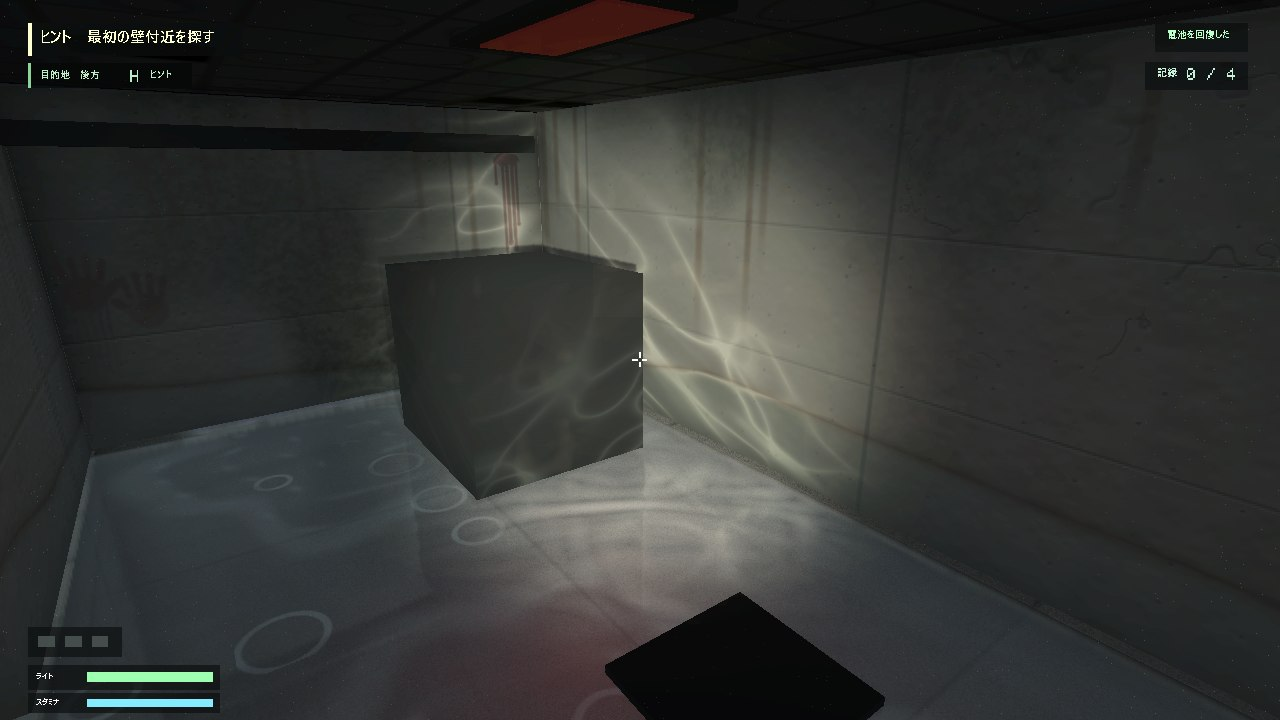
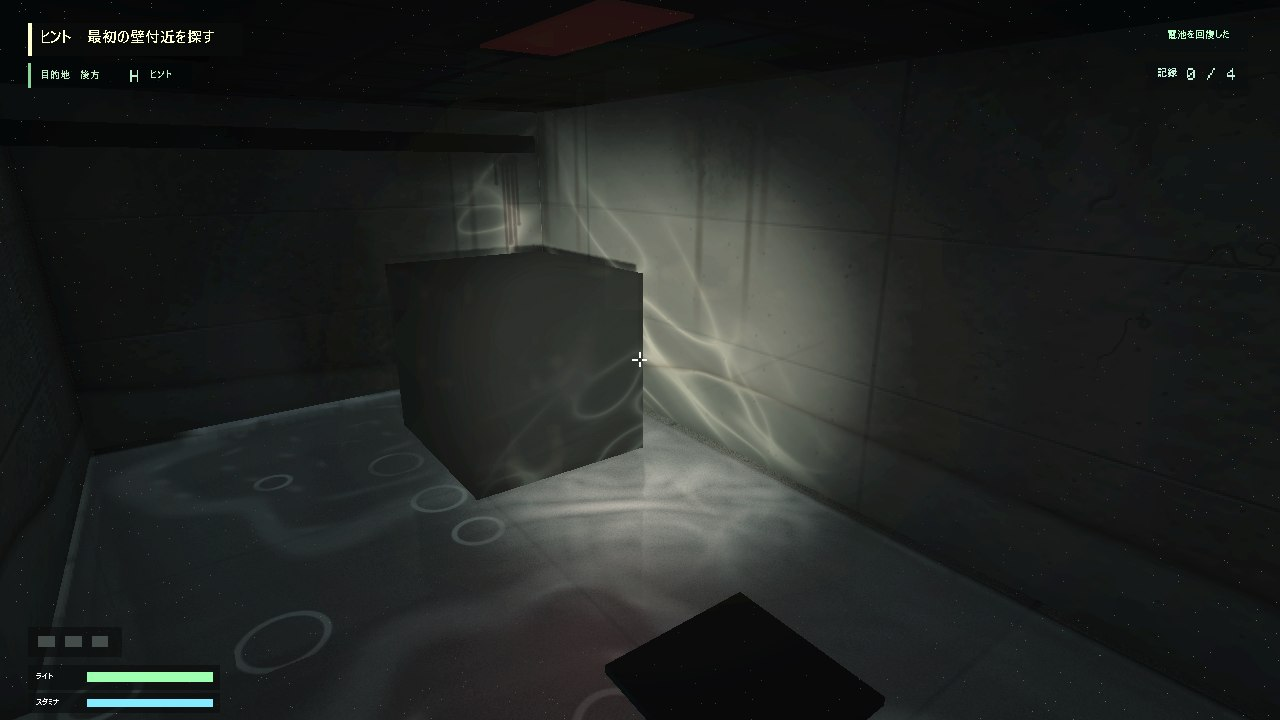
グラフィックをホラー寄りに調整（共通の色調で暗部を沈めて彩度を落とし、霧を闇の色に、環境光と照明を弱め、懐中電灯の光を狭め、周辺減光と暗部の粒を強化）。READMEの画像を更新

diff --git a/Job_application_work_horror/Player.cpp b/Job_application_work_horror/Player.cpp
@@ -348,11 +348,11 @@ void Player::Update()
         flashlightDirection.y,
         flashlightDirection.z,
         0.0f);
-    // スポットライトの形：13度の内側は全部の明るさ、29度の外側で消え、その間は1.55乗でなめらかに暗くしている
+    // スポットライトの形：11度の内側は全部の明るさ、26度の外側で消え、その間は1.8乗で暗くしている（照らした輪の外がすぐ闇になる）
     light.SpotParams = Vector4(
-        cosf(DirectX::XMConvertToRadians(13.0f)),
-        cosf(DirectX::XMConvertToRadians(29.0f)),
-        1.55f,
+        cosf(DirectX::XMConvertToRadians(11.0f)),
+        cosf(DirectX::XMConvertToRadians(26.0f)),
+        1.8f,
         batteryWeakness
     );
 
@@ -364,23 +364,24 @@ void Player::Update()
             m_LightDiffuseG * (1.0f - batteryStress * 0.06f - batteryWeakness * 0.10f),
             m_LightDiffuseB * (1.0f - batteryStress * 0.18f - batteryWeakness * 0.32f),
             1.0f);
-        light.Ambient = Color(0.255f, 0.252f, 0.246f, 1.0f);
+        // 懐中電灯を点けている間は、光の外を暗く沈め、照らした所だけが見えるようにしている
+        light.Ambient = Color(0.150f, 0.152f, 0.150f, 1.0f);
     }
     else
     {
         light.Diffuse = Color(0.0f, 0.0f, 0.0f, 1.0f);
         light.Ambient = Color(
-            0.245f, // 懐中電灯を消しても、壁と進む方向を見分けられる最低限の明るさ
-            0.248f,
-            0.252f,
+            0.190f, // 懐中電灯を消しても、壁と進む方向をかろうじて見分けられる最低限の明るさ
+            0.194f,
+            0.198f,
             1.0f
         );
     }
 
-    // 電力が戻ったら、環境光を少し明るくしている
+    // 電力が戻ったら、環境光を少し明るくしている（それでも照明の間には暗がりが残る程度にしている）
     if (Core::Game::GetInstance()->IsPowerRestored())
     {
-        light.Ambient = Color(0.285f, 0.292f, 0.304f, 1.0f);
+        light.Ambient = Color(0.200f, 0.205f, 0.212f, 1.0f);
     }
 
     Renderer::SetLight(light);

diff --git a/Job_application_work_horror/CeilingLight.cpp b/Job_application_work_horror/CeilingLight.cpp
@@ -433,14 +433,15 @@ void CeilingLight::CollectPointLights(std::vector<ENVIRONMENT_POINT_LIGHT>& ligh
     // 発光パネルより少し下へ光源を置き、天井に埋もれず室内を照らすようにしている。
     pointLight.PositionRange = Vector4(
         m_Position.x, m_Position.y - 3.0f, m_Position.z,
-        powerRestored ? 165.0f : 115.0f);
+        powerRestored ? 140.0f : 115.0f);
 
     // 進行先の器具も、周囲と同じ非常灯・蛍光灯の色で照らす。
+    // 電力が戻っても、古い蛍光灯のように少し緑がかった弱い光にし、照明と照明の間に暗がりが残るようにしている。
     if (powerRestored)
     {
         pointLight.ColorIntensity = IsFaulted()
-            ? Vector4(0.70f, 0.78f, 0.56f, brightness * 1.08f)
-            : Vector4(0.84f, 0.91f, 1.0f, brightness * 1.32f);
+            ? Vector4(0.70f, 0.78f, 0.56f, brightness * 0.80f)
+            : Vector4(0.88f, 0.94f, 0.84f, brightness * 0.95f);
     }
     else
     {

diff --git a/Job_application_work_horror/Stage2Scene.cpp b/Job_application_work_horror/Stage2Scene.cpp
@@ -90,7 +90,7 @@ void Stage2Scene::Init()
     // 2面は電力が戻った状態から始め、画面効果を2面の雰囲気（少し暗く、光の筋あり）にしている
     game->SetPowerRestored(true);
     game->GetPostProcess()->SetCorridorTension(0.38f);
-    game->GetPostProcess()->SetExposure(1.02f);
+    game->GetPostProcess()->SetExposure(0.95f);
     game->GetPostProcess()->SetAtmosphere(0.20f, 0.62f);
     game->GetPostProcess()->SetLensDistortionStrength(0.20f);
     game->GetPostProcess()->SetFilmGradeStrength(0.58f);
@@ -444,8 +444,8 @@ void Stage2Scene::Update()
             if (marker != nullptr)
             {
                 marker->SetAppearance(
-                    Color(0.08f, 0.18f, 0.10f, 1.0f),
-                    Color(0.16f, 0.52f, 0.22f, 1.0f),
+                    Color(0.06f, 0.14f, 0.08f, 1.0f),
+                    Color(0.08f, 0.30f, 0.12f, 1.0f),
                     44.0f);
             }
             game->GetPostProcess()->TriggerBloomPulse(0.38f, 0.18f);

diff --git a/Job_application_work_horror/Stage2Layout.cpp b/Job_application_work_horror/Stage2Layout.cpp
@@ -204,7 +204,7 @@ namespace Stage2Layout
             Color(0.025f, 0.11f, 0.09f, 1.0f), false);
         evidenceMarker1->SetAppearance(
             Color(0.025f, 0.11f, 0.09f, 1.0f),
-            Color(0.02f, 0.24f, 0.16f, 1.0f), 36.0f);
+            Color(0.012f, 0.13f, 0.09f, 1.0f), 36.0f);
         evidenceMarker1->SetCastsShadow(false);
         Wall* evidenceMarker2 = createWall(
             "Stage2EvidenceMarker2", Vector3(-39.4f, -65.0f, 108.0f),
@@ -212,7 +212,7 @@ namespace Stage2Layout
             Color(0.025f, 0.11f, 0.09f, 1.0f), false);
         evidenceMarker2->SetAppearance(
             Color(0.025f, 0.11f, 0.09f, 1.0f),
-            Color(0.02f, 0.24f, 0.16f, 1.0f), 36.0f);
+            Color(0.012f, 0.13f, 0.09f, 1.0f), 36.0f);
         evidenceMarker2->SetCastsShadow(false);
 
         // 信号盤の上の、色付きで光る目印（信号の面として、シェーダーで模様を描いている）

diff --git a/README.md b/README.md
@@ -117,6 +117,7 @@ Debug構成では `F1` でImGuiデバッグ画面を表示できます。
 ## 技術的な見どころ
 
 - HLSLによる懐中電灯、濡れ床、ブルーム、ビネット、フィルムグレインなどの画面表現
+- ホラー向けの色調（`shader/horrorGrade.hlsli`。壁・床・壁の文字で共通）。暗い所ほど色を抜き（彩度55%）、とても暗い所をさらに沈めて、光の届かない所を灰色ではなく闇にしている。影は病的な緑がかった暗い青、明るい所は黄ばんだ古い蛍光灯の色に寄せ、遠くの霧も灰色のもやではなく闇に溶ける色にしている。環境光を下げ、懐中電灯の光の輪を狭め（11〜26度）、電力が戻った後の天井照明も弱い緑がかった光にして、照らした所とその間の闇の差をはっきりさせている。画面の端の周辺減光を強め、暗い所ほどフィルムの粒が目立つようにしている
 - Compute Shaderによるタイルベースライティング（画面を16x16のタイルに分け、タイルごとに影響する点光源だけを計算。光源数の上限を8個から256個へ拡張。深度プリパスの深度からタイルの一番奥の深度を求め、壁の向こうの光源も外す）
 - 深度プリパス（Zプリパス）。不透明な壁・床・扉の深度だけを本描画と同じ頂点シェーダーで先に描き、隠れた画素の重いピクセルシェーダーを省く。本描画のGPU時間が2.3〜4.8msから1.3〜1.5msに減った（RTX 3050 Laptop、1920x1080。導入前後の画面を画素単位で比べて見た目が変わらないことを確認）
 - Compute Shaderによる自動露出。画面の明るさの対数平均（中央を重く）を1グループ256スレッドで求め、暗い所へはゆっくり・明るい所へは素早く目が慣れる。結果はGPUのバッファに置いたまま露出のシェーダーが読み、CPUへ読み戻さない
@@ -149,6 +150,10 @@ Debug構成では `F1` でImGuiデバッグ画面を表示できます。
 
 ## 試したことと直したこと（経緯）
 
+- **グラフィックがホラーらしくない、という意見をもらった**：画面全体が明るく、色も多く、清潔なオフィスのように見えていた。
+  原因は、環境光（懐中電灯の光の外の明るさ）が高く、遠くの霧が明るい灰色で、色調の補正も控えめだったこと。
+  色調を共通の処理（`horrorGrade.hlsli`）にまとめ、彩度を落として暗い所を沈め、霧を闇の色に、環境光と照明を弱め、懐中電灯の光の輪を狭めた。
+  照らした所に何があるかは読めるよう、明るい所の色は少し残し、進む方向の照明のちかちかや信号盤の光る色は残している。
 - **水たまりが、PCによって消えていた**：水たまりを置く場所を、シェーダーの中で `sin` を使った乱数で決めていた。`sin` の精度はGPUの種類で違うため、別のPCでは同じ式でも違う値になり、水たまりが消えた。
   置く場所をCPUで計算した表（16x16マス）にして定数バッファ（b13）で渡すようにし、どのGPUでも同じ場所に出るようにした。
 - **水たまりの波紋**：最初は、足音のたびに加算合成の輪の板を広げているだけだった。講評で「波紋のシミュレーション」「波打った反射を壁に映す」と言われ、Compute Shaderの2次元の波動方程式に置き換えた。

diff --git a/docs/AI_USAGE.md b/docs/AI_USAGE.md
@@ -73,6 +73,7 @@
 | 肖像画の異変の目を、絵の前に浮かぶ赤い箱から、シェーダーで描いた目に替えた（見つめると開きかけ、異変で見開いて赤い瞳が見ている人を目で追う）。デバッグ画面と自動撮影に肖像画の異変を出す操作と場面を追加 | `shader/portraitPainting.hlsli`, `shader/litTexturePS.hlsl`, `Wall.*`, `Stage2Layout.*`, `Stage2Scene*.cpp`, `Stage2Scene.h`, `Scene.h`, `DebugUI.cpp`, `CaptureMode.cpp`, `README.md` | 絵の目の設計・実装・撮影での確認 | 方針の選択（肖像画の目を絵の中で開かせる） |
 | 時計の文字盤をシェーダーで描いた（ローマ数字・目盛り・針・ガラスのひび。箱の針を削除）、ロッカーで息を止める操作（影がロッカーの前まで探しに来る。息のゲージと聞かれる猶予）、懐中電灯の光の輪・くもりと電池の弱り（60%以下で暗く黄色く短く）、鏡に映る自分を円柱と楕円体の体にして歩くと手足を振るようにした、1面の西棟の水から後をついて来る誰かの足跡。自動撮影に電池が弱った場面を追加 | `shader/clockFace.hlsli`, `shader/clockPS.hlsl`, `shader/litTexturePS.hlsl`, `shader/flashlightLighting.hlsli`, `Wall.*`, `BreathHold.h`, `MirrorSelf.*`, `Player.cpp`, `Hud.h`, `HudScreens.cpp`, `Stage1Layout.*`, `StageScene.*`, `StageSceneEvents.cpp`, `Stage2Layout.*`, `Stage2Scene*.cpp`, `Stage2Scene.h`, `CaptureMode.cpp`, `README.md` | 設計・実装・撮影での確認 | 方針の選択（候補1〜5を続けて作る） |
 | 偽の扉の板をシェーダーで描いた木の扉にした（羽目板・木目・剥げた塗装・部屋番号の札・鍵穴）、天井の雨漏り（落ち続ける水滴と、広がっていく水たまり）、ロッカーの中で音が扉越しにこもり、探しに来た影の息づかいとロッカーに触れる音が聞こえるようにした、最後の追跡の山場（影の濡れた足跡、通り過ぎた照明が消える、肖像画の目と時計の針）。デバッグ画面と自動撮影に偽の扉と最後の追跡を出す操作と場面を追加 | `shader/doorPainting.hlsli`, `shader/doorPS.hlsl`, `shader/litTexturePS.hlsl`, `shader/wetFloorPS.hlsl`, `Wall.*`, `WaterEffectSystem.h`, `GroundWaterEffects.cpp`, `Ground.*`, `Game.*`, `Stage1Layout.cpp`, `Stage2Layout.cpp`, `Stage2Scene*.cpp`, `Stage2Scene.h`, `Scene.h`, `DebugUI.cpp`, `CaptureMode.cpp`, 技術デモの `DemoScene.cpp`, `README.md` | 設計・実装・撮影での確認 | 方針の選択（候補1〜4を続けて作る） |
+| グラフィックをホラー寄りにした（共通の色調 `horrorGrade.hlsli`：暗い所の彩度を落として沈め、影を緑がかった暗い青・明るい所を黄ばんだ蛍光灯の色に。霧を闇の色に、環境光・電力復旧後の照明を弱め、懐中電灯の光の輪を狭め、周辺減光と暗い所の粒を強め、信号盤と記録の目印の光を抑えた）。READMEの画像を作り直した | `shader/horrorGrade.hlsli`, `shader/litTexturePS.hlsl`, `shader/wetFloorPS.hlsl`, `shader/flashlightRevealPS.hlsl`, `shader/crtOverlayPS.hlsl`, `shader/signalPanelPS.hlsl`, `Player.cpp`, `CeilingLight.cpp`, `Stage2Layout.cpp`, `Stage2Scene.cpp`, `README.md`, `docs/images/*.jpg` | 色調と明るさの設計・撮影での比較 | 見た目の意見（グラフィックをもっとホラー寄りに） |
 
 ### 設計の整理・品質改善
 
